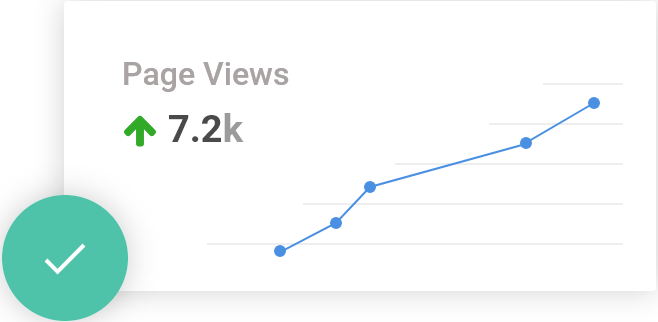
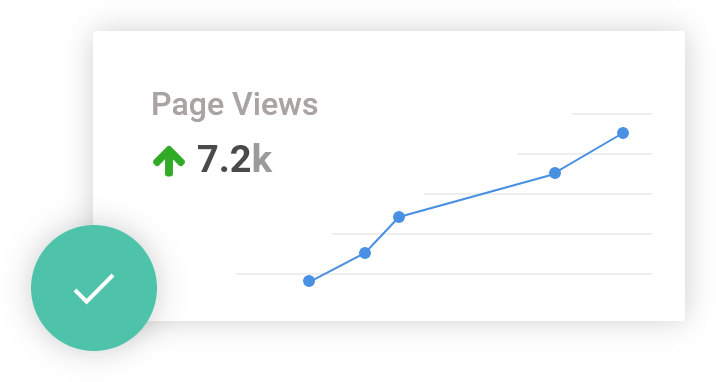
(fix): Correct shadows in UX sample images on product pages

diff --git a/src/app/common/components/marketing/styles/style-4.scss b/src/app/common/components/marketing/styles/style-4.scss
@@ -102,19 +102,20 @@
 
       img.m-marketing__image--2 {
         object-fit: contain;
-        width: 328px;
-        height: 160px;
+        width: 358px;
+        height: 191px;
         position: absolute;
         left: 0;
         bottom: 35px;
+        transform: translate(-15px, 0);
 
         @media screen and (max-width: $m-grid-min-vp) {
           right: auto;
           left: 50%;
           bottom: 0;
-          transform: translate(-50%, 40px);
-          max-width: 75vw;
-          max-height: 50vw;
+          transform: translate(-50%, 50%);
+          width: 85vw;
+          height: 45.35vw;
         }
       }
 
@@ -125,7 +126,13 @@
         text-align: right;
 
         @media screen and (max-width: $m-grid-min-vp) {
-          margin-bottom: 40px;
+          margin-bottom: calc(
+            20vw + 40px
+          ); // A little bit less than half UX image + normal margin
+
+          &.m-marketing__image--noUxSample {
+            margin-bottom: 40px;
+          }
         }
 
         // Deco

diff --git a/src/app/common/components/marketing/styles/style-3.scss b/src/app/common/components/marketing/styles/style-3.scss
@@ -126,19 +126,20 @@
 
       img.m-marketing__image--2 {
         object-fit: contain;
-        width: 328px;
-        height: 160px;
+        width: 358px;
+        height: 191px;
         position: absolute;
         right: 0;
         bottom: 35px;
+        transform: translate(15px, 0);
 
         @media screen and (max-width: $m-grid-min-vp) {
           right: auto;
           left: 50%;
           bottom: 0;
-          transform: translate(-50%, 40px);
-          max-width: 75vw;
-          max-height: 50vw;
+          transform: translate(-50%, 50%);
+          width: 85vw;
+          height: 45.35vw;
         }
       }
 
@@ -148,7 +149,13 @@
         width: 100%;
 
         @media screen and (max-width: $m-grid-min-vp) {
-          margin-bottom: 40px;
+          margin-bottom: calc(
+            20vw + 40px
+          ); // A little bit less than half UX image + normal margin
+
+          &.m-marketing__image--noUxSample {
+            margin-bottom: 40px;
+          }
         }
 
         // Deco

diff --git a/src/app/modules/blockchain/marketing/token.component.html b/src/app/modules/blockchain/marketing/token.component.html
@@ -1,6 +1,6 @@
 <div class="mf-jumpAnchor" #topAnchor></div>
 
-<m-marketing class="m-nodes__marketing" pageTitle="Nodes" i18n-pageTitle>
+<m-marketing class="m-nodes__marketing" pageTitle="Tokens" i18n-pageTitle>
   <div class="m-marketing__main m-marketing__section--style-2">
     <div class="m-grid m-marketing__wrapper">
       <div class="m-grid__column-7 m-grid__column-12--mobile m-marketing__body">

diff --git a/src/app/modules/nodes/marketing/marketing.component.html b/src/app/modules/nodes/marketing/marketing.component.html
@@ -61,7 +61,7 @@
         <div
           class="m-grid__column-6 m-grid__column-12--mobile m-marketing__image"
         >
-          <span>
+          <span class="m-marketing__image--noUxSample">
             <img
               class="m-marketing__image--1"
               [src]="cdnAssetsUrl + 'assets/product-pages/nodes/nodes-2.jpg'"

diff --git a/src/app/modules/pro/marketing.component.html b/src/app/modules/pro/marketing.component.html
@@ -157,7 +157,7 @@
         <div
           class="m-grid__column-6 m-grid__column-12--mobile m-marketing__image"
         >
-          <span>
+          <span class="m-marketing__image--noUxSample">
             <img
               class="m-marketing__image--1"
               [src]="cdnAssetsUrl + 'assets/product-pages/pro/pro-4.jpg'"
